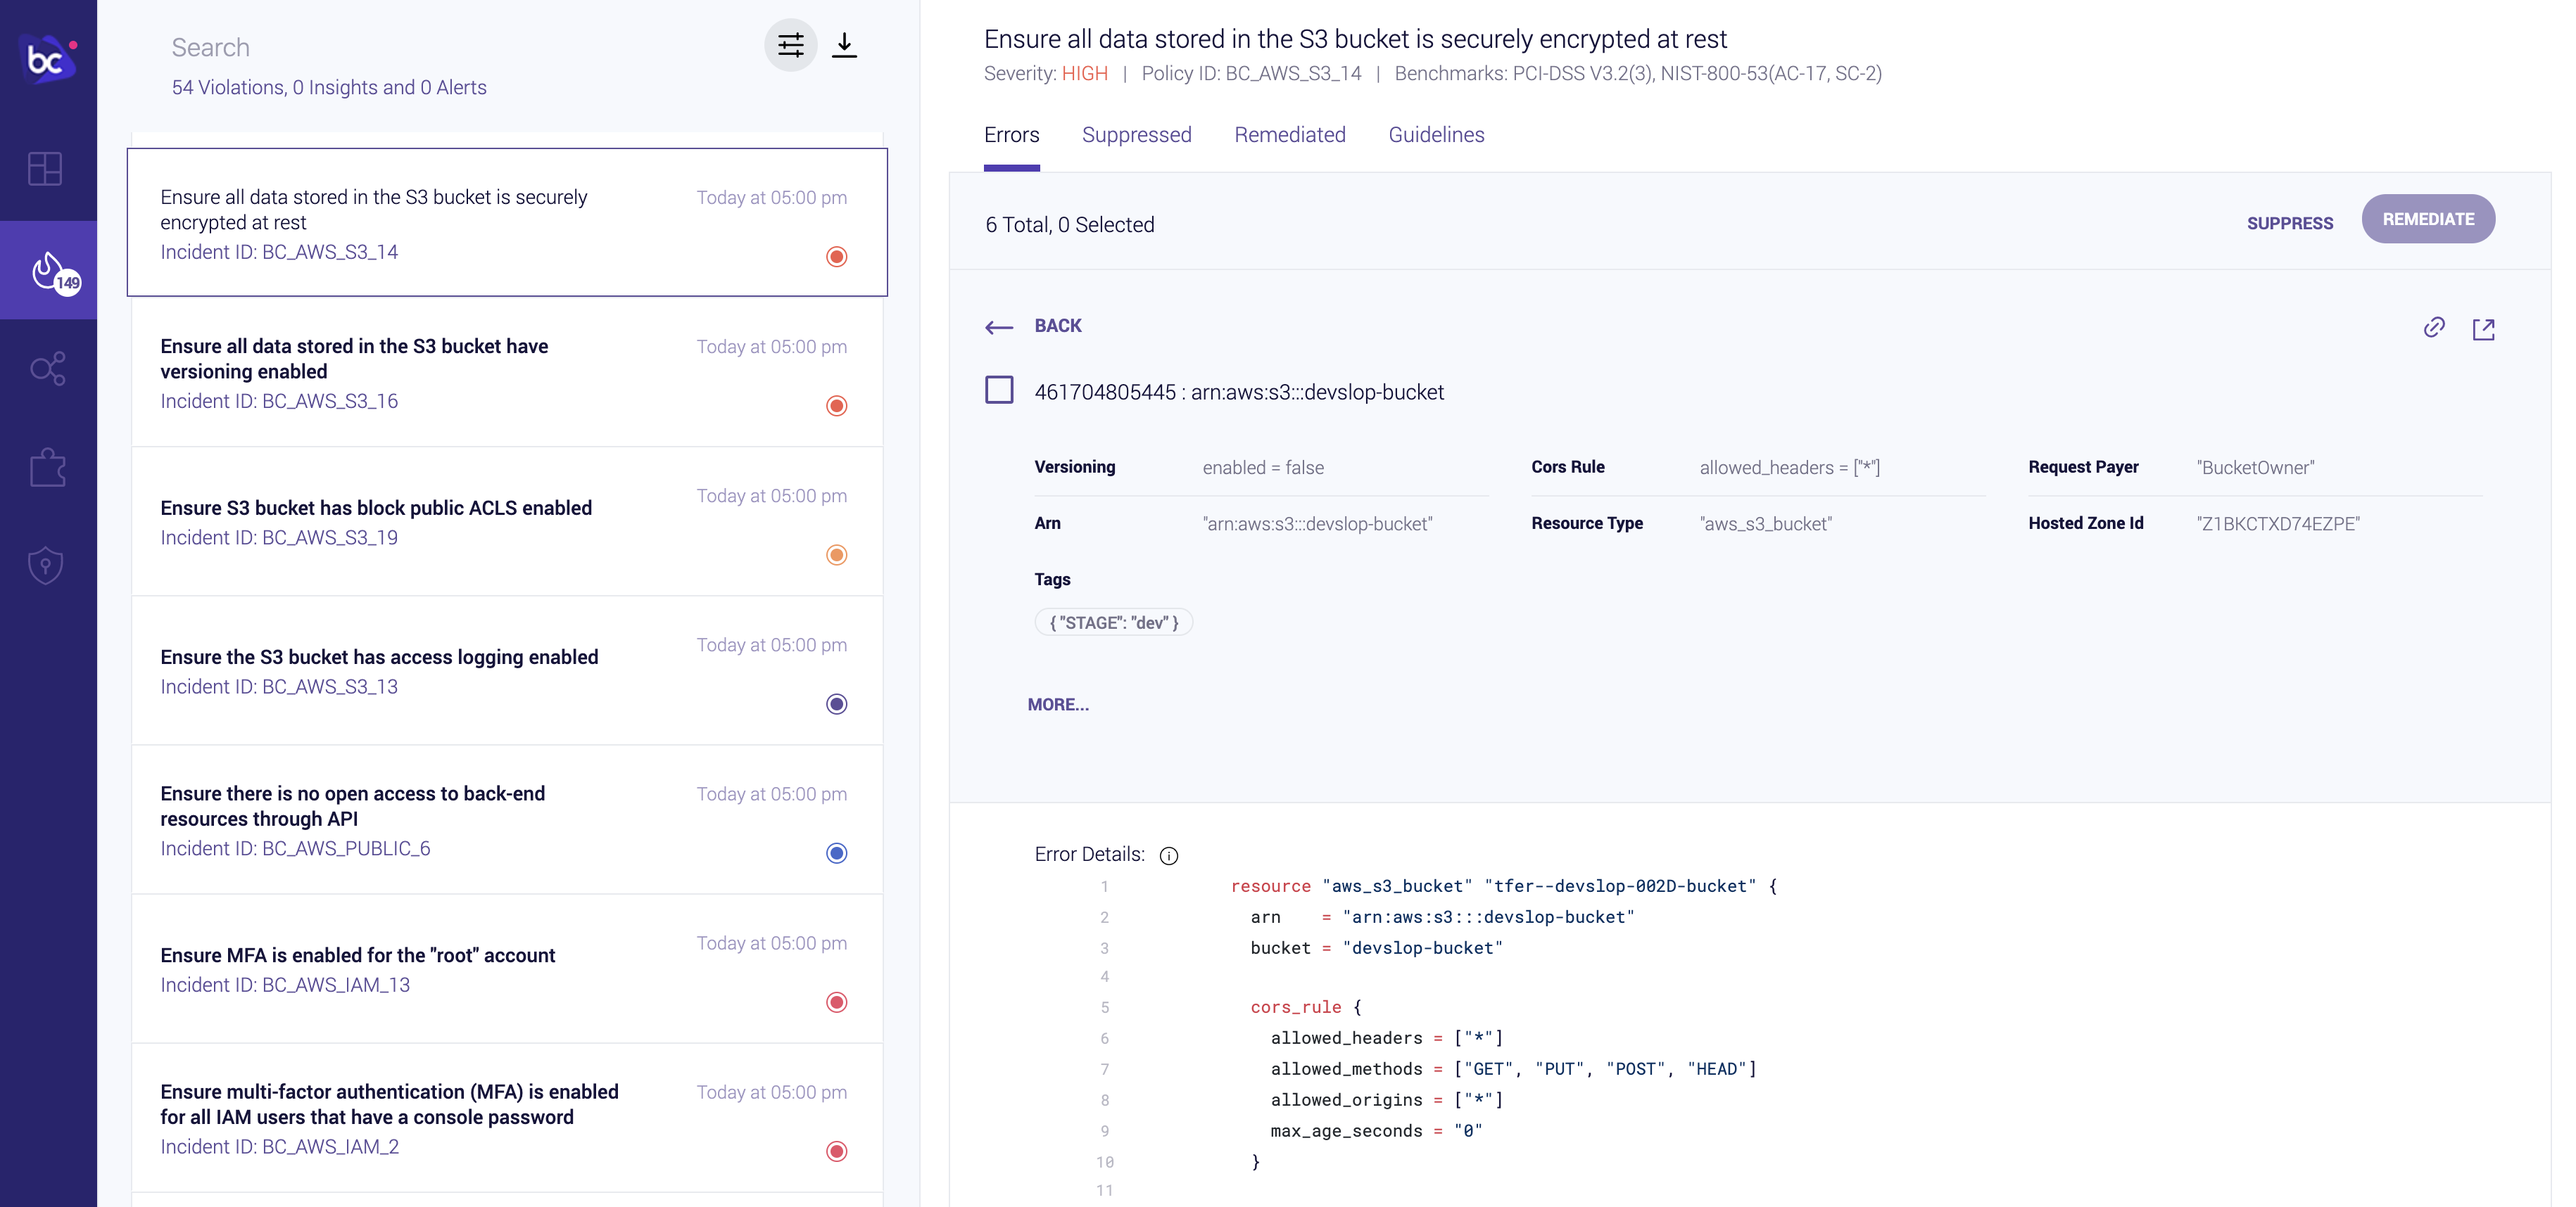
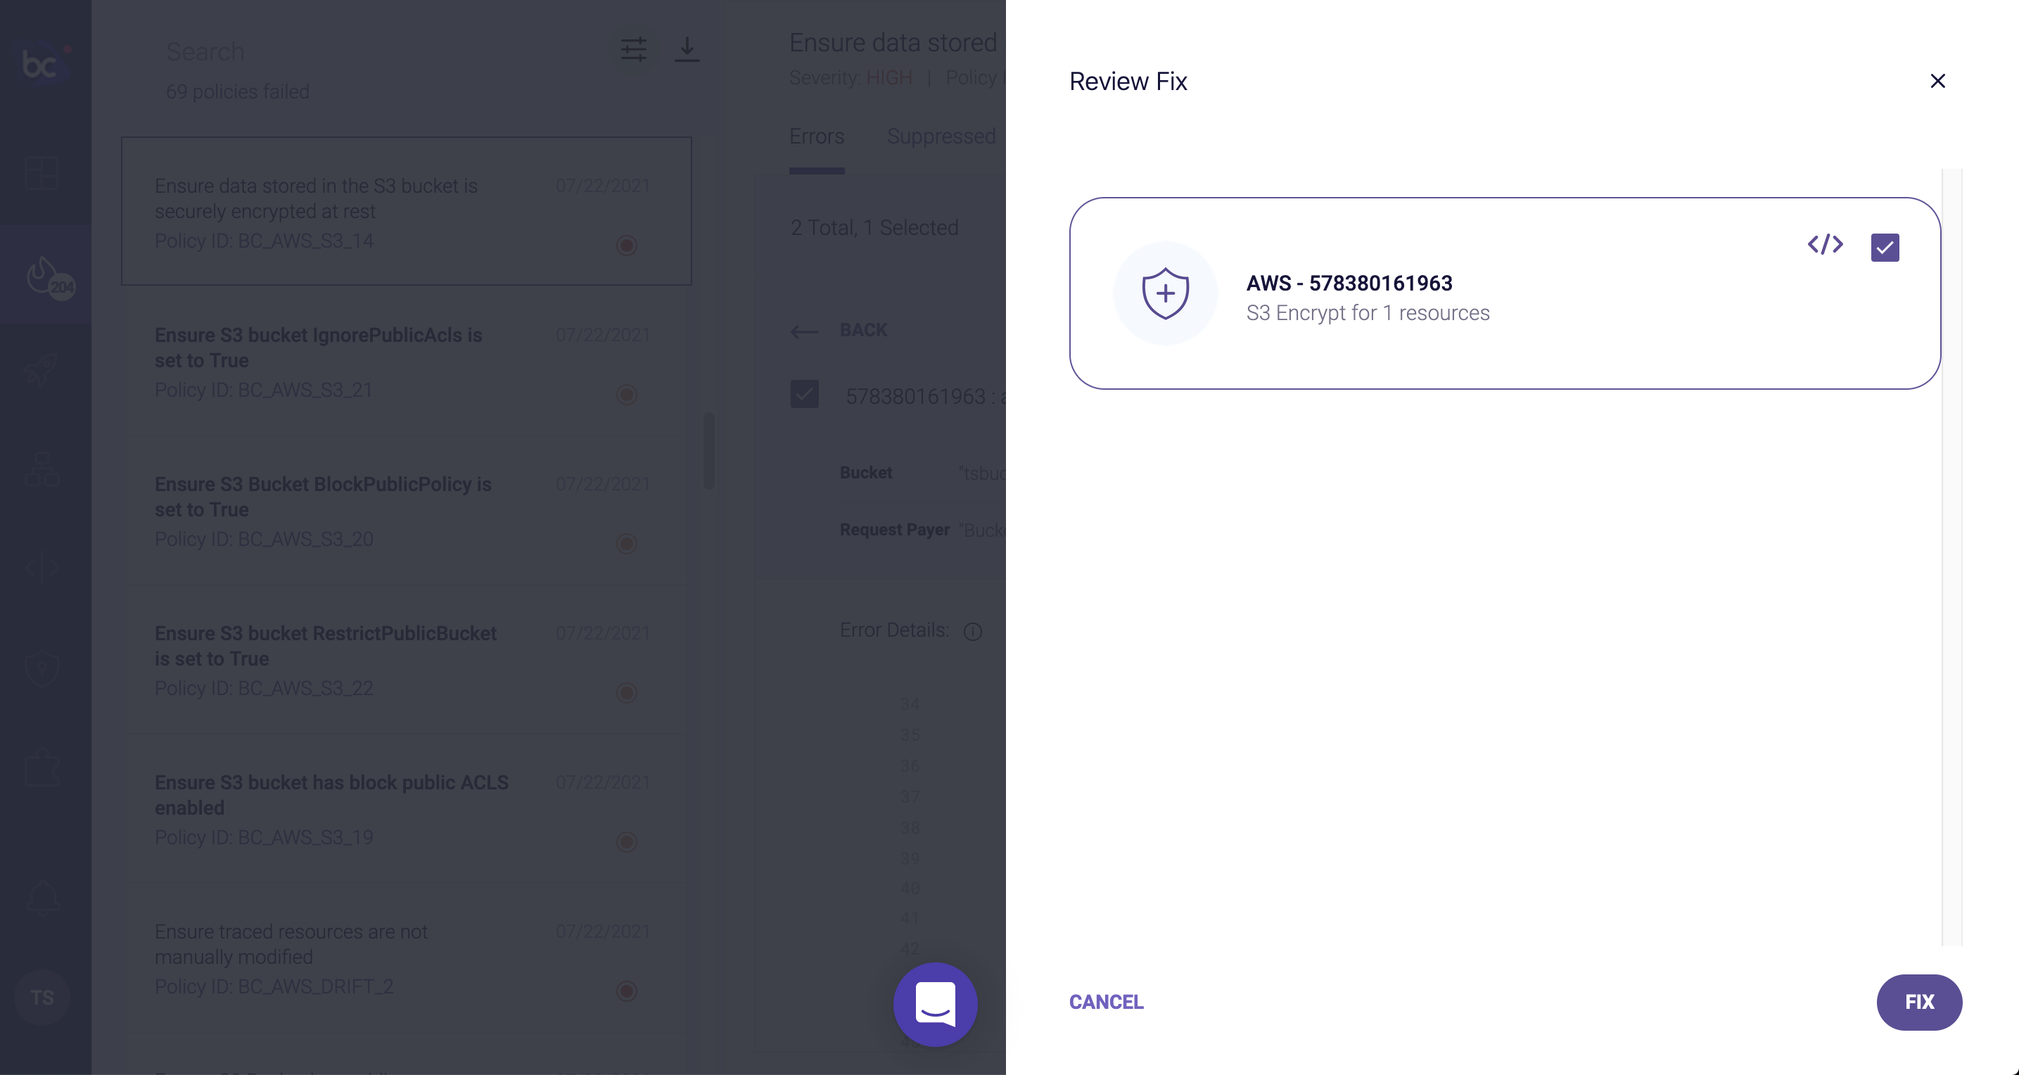
AWS feedback

diff --git a/content/terraform/50_module_three/3004_bridgecrew_automate_fix_runtime.md b/content/terraform/50_module_three/3004_bridgecrew_automate_fix_runtime.md
@@ -7,7 +7,7 @@ pre: "<b>6.4 </b>"
 
 ## Automating fixes in runtime
 
-Similar to what we did with pull request fixes in the previous module, Bridgecrew allows for immediate remediation of issues in runtime by reconfiguring your objects via the AWS APIs.
+Similar to what we did with pull request fixes in the previous module, Bridgecrew allows for immediate remediation of issues in runtime by reconfiguring your objects via the AWS APIs. Typically, it's a best practice to make all changes to IaC provisioned resources in the code that provisioned them or else you create drift (discussed next). However, for resources not provisioned using IaC templates, runtime remediations make meeting compliance much easier.
 
 Implementing automated remediations does require extra permissions than previously granted with the default AWS Read Only integration. When you attempt a runtime remediation without the correct permissions, you’ll be prompted to configure the AWS Remediation Stack: 
 
@@ -21,21 +21,29 @@ Adding the AWS Remediation stack follows the same workflow as the previous read-
 Select **Create Stack** and return to Bridgecrew, you will now be able to Remediate runtime resources:
 ![AWS Bridgecrew remediation integration](./images/remediate_stack_3.png "AWS Bridgecrew remediation integration")
 
-## Fixing an unencrypted S3 bucket
+## Adding an unencrypted S3 bucket
 
-Continuing with the example of the unencrypted S3 bucket from the previous page, the **Remediate** button will now allow runtime changes to the S3 configuration:
+Let's add an S3 bucket that does not have default encryption turned (a critical misconfiguration). In the AWS console, find the S3 services page.
+
+![S3 services page](./images/s3_page.png "S3 services page")
+
+Select "Create bucket." Give it a globally unique name and leave everything else as the defaults. Notice that "Default encryption" is disabled.
+
+Give Bridgecrew a minute to scan the new resource's configurations or jumpstart the scan with:
+
+```bash
+curl -X POST -H "Authorization: $YOUR_BC_API_KEY" https://www.bridgecrew.cloud/api/v1/scans/integrations
+```
+
+## Fixing the unencrypted S3 bucket
+
+If we head over to the Incidents page and search for `BC_AWS_S3_14` you will find the policy titled "Ensure data stored in the S3 bucket is securely encrypted at rest."
+
+The **Fix** button will now allow runtime changes to the S3 configuration:
 
 ![AWS Bridgecrew remediating s3 unencrypted bucket](./images/remediation-s3-encryption-00001.png "AWS Bridgecrew remediating s3 unencrypted bucket")
 
-For the sake of this workshop, we can use the AWS Console to confirm the selected bucket is currently unencrypted:
-
-![AWS Bridgecrew remediating s3 unencrypted bucket](./images/remediation-s3-encryption-00006.png "AWS Bridgecrew remediating s3 unencrypted bucket")
-
-Back in Bridgecrew, review the remediation, and select **Remediate** a final time.
-
-![AWS Bridgecrew remediating s3 unencrypted bucket](./images/remediation-s3-encryption-00007.png "AWS Bridgecrew remediating s3 unencrypted bucket")
-
-Bridgecrew will now use AWS API's to ensure encryption is turned on for the selected resource:
+Select **Fix** again to run the remediation. Bridgecrew will now use the AWS APIs to ensure encryption is turned on for the selected resource:
 
 ![AWS Bridgecrew remediating s3 unencrypted bucket](./images/remediation-s3-encryption-00008.png "AWS Bridgecrew remediating s3 unencrypted bucket")
 

diff --git a/content/terraform/40_module_two/2003_automating_iac_terraform_cloud.md b/content/terraform/40_module_two/2003_automating_iac_terraform_cloud.md
@@ -60,7 +60,9 @@ Next, you’ll add the Bridgecrew integration. Head over to the [Integrations](h
 
 Selecting “Create Policy” will generate a Sentinel Policy that you can then add to Terraform Cloud. Copy the code from section 3 of the output.
 
-Head back to Terraform Cloud and go to the “Policies" setting and "Create a new policy." Name the policy `bridgecrew` and paste the code you copied in the Bridgecrew integration page and paste it into the “Policy code” section and select “Create policy”:
+Head back to Terraform Cloud and go to the “Policies" setting and "Create a new policy." Name the policy `bridgecrew`. The "Enforcement mode" will determine whether builds are blocked (`hard-mandatory`) by violations of Sentinel policies, in this case sourced from Bridgecrew, are blocked but with an override (`soft-mandatory`), or just provide the violations but don't block. For the purpose of this workshop, we know there are violations but we want to deploy them anyway. Set the mode to `advisory (logging only)`.
+
+Paste the code you copied in the Bridgecrew integration page and paste it into the “Policy code” section and select “Create policy”:
 
 ![Add Sentinel Policy](images/sentinel_policy.png "Add Sentinel Policy")
 

diff --git a/content/terraform/50_module_three/3002_bridgecrew_pull_request_fix.md b/content/terraform/50_module_three/3002_bridgecrew_pull_request_fix.md
@@ -9,7 +9,7 @@ pre: "<b>6.2 </b>"
 
 Now that you’ve pulled in multiple infrastructure sources, you may get overwhelmed at the prospect of fixing the several dozen issues Bridgecrew has identified. To help us implement fixes as fast as possible, Bridgecrew generates and pushes fix pull requests back into your GitHub repository.
 
-Let’s walk through the process with one of the policies you looked at earlier, "S3 Bucket has an ACL defined which allows public READ access."
+Let’s walk through the process with one of the policies you looked at earlier, "Ensure bucket ACL does not grant READ permission to everyone"
 
 ![Bridgecrew Projects page](images/bridgecrew_projects_page2.png "Bridgecrew Projects page")
 

diff --git a/content/terraform/20_prerequisites/2003_bc_setup.md b/content/terraform/20_prerequisites/2003_bc_setup.md
@@ -32,3 +32,9 @@ If you run into problems, try the [alternate install instructions](https://docs.
 Throughout the tutorial, you’ll need to use the Bridgecrew API token. You can access [it here](https://www.bridgecrew.cloud/integrations/api-token) or in your Bridgecrew account by navigating to the Integrations tab and selecting API Token.
 
 ![Bridgecrew API token](./images/dashboardapitoken1.png)
+
+We'll use the API token in a few places with the environment variable `YOUR_BC_API_KEY`. To make following along easier, set this variable to equal your API token using the following command in your terminal:
+
+```bash
+YOUR_BC_API_KEY=<paste-bc-api-key-here>
+```

diff --git a/content/terraform/40_module_two/2005_kickoff_pr.md b/content/terraform/40_module_two/2005_kickoff_pr.md
@@ -7,7 +7,7 @@ pre: "<b>5.5 </b>"
 
 ## Kick off a test pull request
 
-Check that all three integrations are working by kicking off a pull request. Go back to your fork of the TerraGoat repo and select "Add file" -> "Create new file." Set the path to `terragoat/terraform/simple_instance/ec2.tf`. Add the following code:
+Check that all three integrations are working by kicking off a pull request. Go back to your fork of the TerraGoat repo and select "Add file" -> "Create new file." Set the path to `terraform/simple_instance/ec2.tf`. Add the following code:
 
 ```
 provider "aws" {

diff --git a/content/terraform/30_module_one/1002_local_scan_cli.md b/content/terraform/30_module_one/1002_local_scan_cli.md
@@ -16,7 +16,6 @@ To demonstrate what kinds of security and compliance errors Bridgecrew can ident
 Make sure you are in the cloned directory from the previous step, copy your unique Bridgecrew API token, and scan the `s3.tf` in the `aws` directory:
 
 ```bash
-cd terragoat
 checkov -f terraform/aws/s3.tf --bc-api-key $YOUR_BC_API_KEY --repo-id bridgecrewio/s3
 ```
 
